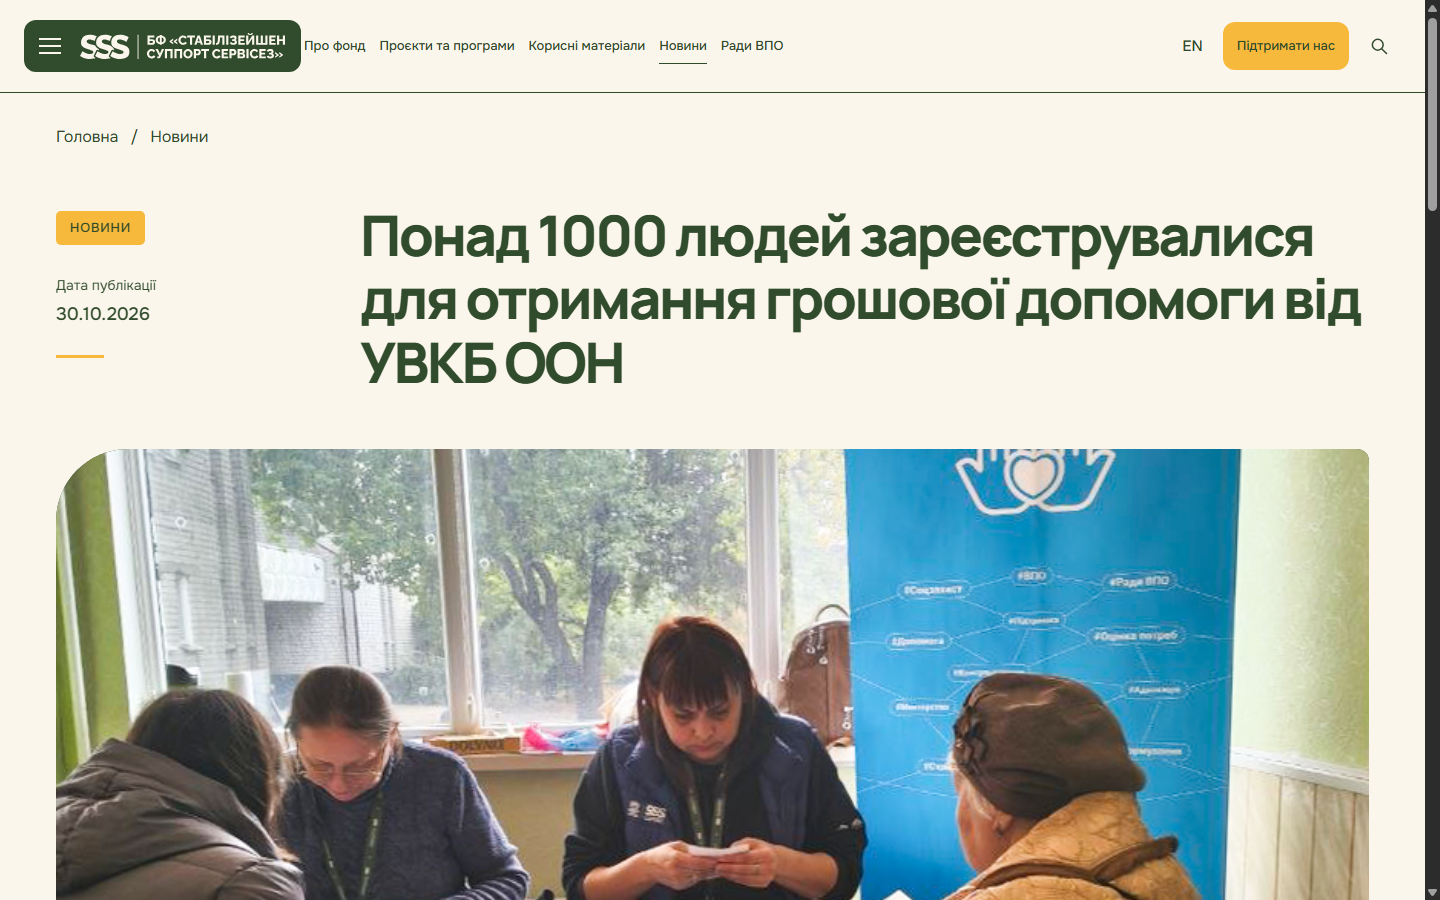
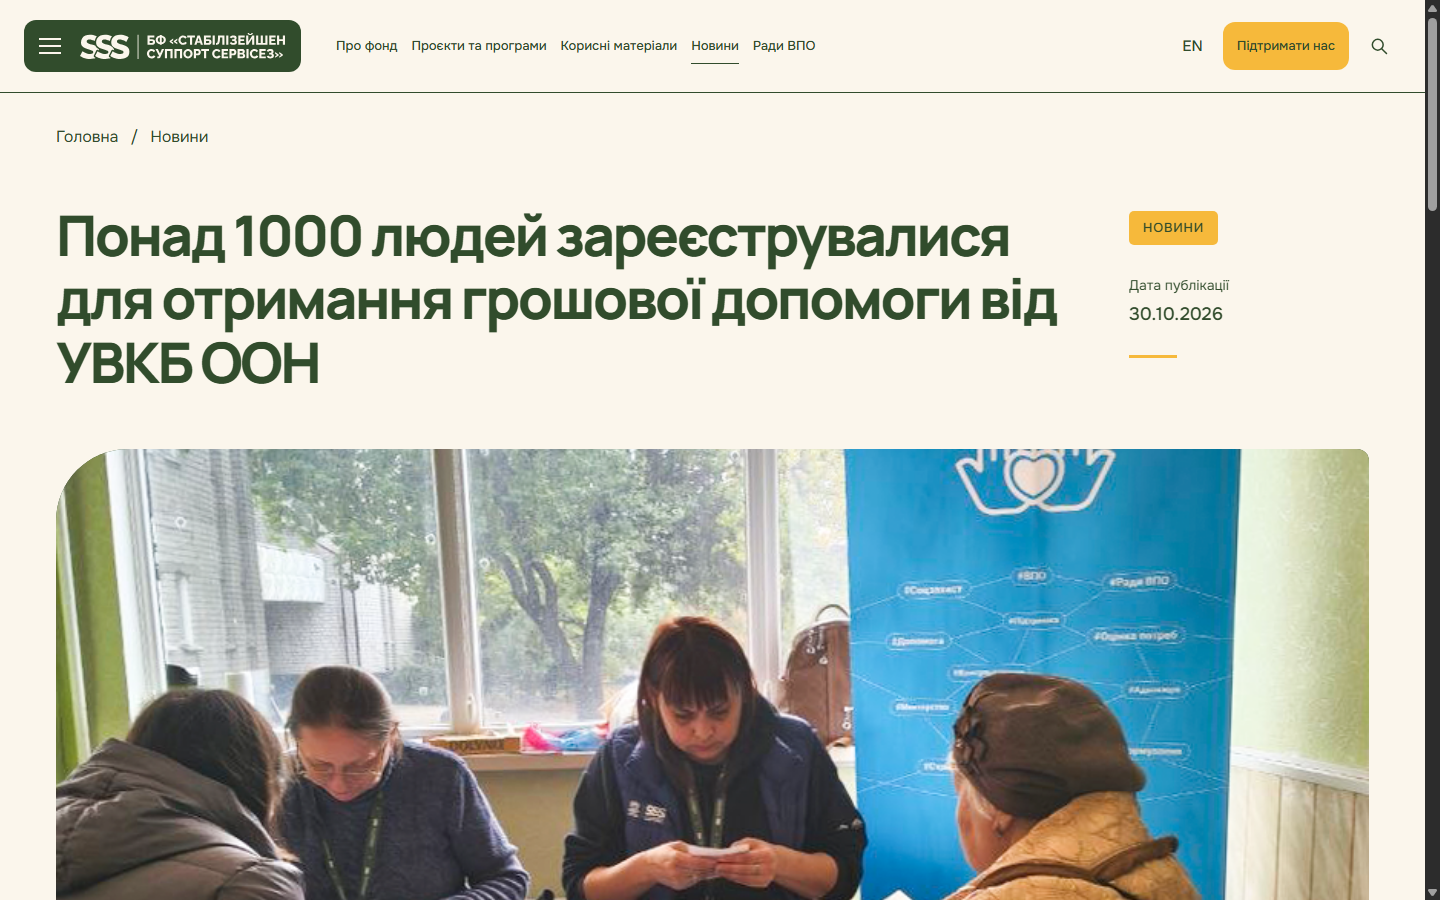
+

Changed region(s): [[0.0312, 0.2178, 0.9688, 0.4356], [0.2188, 0.0311, 0.5625, 0.0622]]

diff --git a/index.html b/index.html
@@ -31,12 +31,12 @@
  <article class="news-article" aria-labelledby="news-title">
   <header class="news-heading wrap">
    <nav class="breadcrumbs" aria-label="Навігаційний ланцюжок"><a href="https://sss-ua.org/">Головна</a><span aria-hidden="true">/</span><a href="https://sss-ua.org/news/">Новини</a></nav>
-   <div class="news-heading-grid"><div class="news-kicker" data-enter><span class="eyebrow">Новини</span><span class="date-label">Дата публікації</span><time datetime="2026-10-30">30.10.2026</time><span class="kicker-line" aria-hidden="true"></span></div>
-   <h1 id="news-title" data-enter>Понад 1000 людей зареєструвалися для отримання грошової допомоги від УВКБ ООН</h1></div>
+   <div class="news-heading-grid"><h1 id="news-title" data-enter>Понад 1000 людей зареєструвалися для отримання грошової допомоги від УВКБ ООН</h1>
+   <div class="news-kicker" data-enter><span class="eyebrow">Новини</span><span class="date-label">Дата публікації</span><time datetime="2026-10-30">30.10.2026</time><span class="kicker-line" aria-hidden="true"></span></div></div>
    <div class="news-cover" data-enter><img src="assets/images/856kh450_tytul-1.png" alt="Працівниці мобільної команди реєструють людей для отримання грошової допомоги" width="856" height="450" fetchpriority="high"></div>
   </header>
   <div class="article-layout wrap">
-   <aside class="article-sidebar"><div class="sidebar-project"><span class="eyebrow">Проєкт</span><a href="https://sss-ua.org/projects/pidtrymka-spromozhnosti-derzhavnykh-ustanov-ta-mistsevykh-hromad-u-zmitsnenni-systemy-sotsialnoho-zakhystu-v-ukraini-2026/">«Підтримка спроможності державних установ та місцевих громад у зміцненні системи соціального захисту в Україні» | 2026<span class="project-link-arrow" aria-hidden="true">↗</span></a></div><div class="share-tools"><span class="eyebrow">Поділитися</span><div class="share-buttons"><a href="https://www.facebook.com/sharer/sharer.php?u=https%3A%2F%2Fsss-ua.org%2Fnews%2Fponad-1000-liudey-zareiestruvalysia-dlia-otrymannia-hroshovoi-dopomohy-vid-uvkb-oon%2F" target="_blank" rel="noopener noreferrer" aria-label="Поділитися у Facebook">f</a><a href="https://t.me/share/url?url=https%3A%2F%2Fsss-ua.org%2Fnews%2Fponad-1000-liudey-zareiestruvalysia-dlia-otrymannia-hroshovoi-dopomohy-vid-uvkb-oon%2F" target="_blank" rel="noopener noreferrer" aria-label="Поділитися у Telegram">↗</a><button type="button" class="copy-link" aria-label="Копіювати посилання">⧉</button></div><span class="copy-status" role="status"></span></div></aside>
+   <aside class="article-sidebar"><div class="sidebar-project"><span class="eyebrow">Проєкт</span><a href="https://sss-ua.org/projects/pidtrymka-spromozhnosti-derzhavnykh-ustanov-ta-mistsevykh-hromad-u-zmitsnenni-systemy-sotsialnoho-zakhystu-v-ukraini-2026/">«Підтримка спроможності державних установ та місцевих громад у зміцненні системи соціального захисту в Україні» | 2026<span class="project-link-arrow" aria-hidden="true">↗</span></a></div><div class="share-tools"><span class="eyebrow">Поділитися</span><div class="share-buttons"><a href="https://www.facebook.com/sharer/sharer.php?u=https%3A%2F%2Fsss-ua.org%2Fnews%2Fponad-1000-liudey-zareiestruvalysia-dlia-otrymannia-hroshovoi-dopomohy-vid-uvkb-oon%2F" target="_blank" rel="noopener noreferrer" aria-label="Поділитися у Facebook">f</a><a href="https://t.me/share/url?url=https%3A%2F%2Fsss-ua.org%2Fnews%2Fponad-1000-liudey-zareiestruvalysia-dlia-otrymannia-hroshovoi-dopomohy-vid-uvkb-oon%2F" target="_blank" rel="noopener noreferrer" aria-label="Поділитися у Telegram"><svg class="telegram-icon" viewBox="0 0 24 24" width="21" height="21" fill="currentColor" aria-hidden="true" focusable="false"><path d="M21.6 3.4 18.2 20c-.25 1.17-.93 1.46-1.88.91l-5.18-3.82-2.5 2.41c-.28.28-.52.52-1.06.52l.38-5.28 9.61-8.69c.42-.37-.09-.58-.65-.21L5.04 13.32.92 12.03c-.9-.28-.92-.9.19-1.34L20.4 3.25c.89-.33 1.67.2 1.2 1.15Z"/></svg></a><button type="button" class="copy-link" aria-label="Копіювати посилання">⧉</button></div><span class="copy-status" role="status"></span></div></aside>
    <div class="article-body">
     <p class="article-lead" data-source-paragraph="0">Понад 1000 евакуйованих та постраждалих від війни зареєструвалися для отримання грошової допомоги від УВКБ ООН завдяки нашому фонду.</p><p class="" data-source-paragraph="1">З початку жовтня наші мобільні команди в шести областях відвідують громади, щоб оперативно реагувати на потреби людей, які змушені були залишити свої домівки через небезпеку або постраждали від обстрілів. Вони облаштовують зони реєстрації для отримання грошової допомоги в публічних місцях. Усі, хто потребує підтримки й відповідає критеріям програми, можуть зареєструватися на місці — швидко й комфортно.</p><div class="article-quote"><span class="quote-mark" aria-hidden="true">“</span><p class="" data-source-paragraph="2"><em>«Ми прагнемо зробити процес реєстрації доступним, своєчасним і скоординованим. Перші тижні роботи показали, наскільки важливими є гнучкість у плануванні виїздів, координація між гуманітарними партнерами та оперативне реагування на зміну безпекової ситуації. Зокрема, коли не можемо відвідати попередньо погоджені громади через безпекові ризики, опрацьовуємо альтернативні варіанти, щоби дістатися до людей, які потребують підтримки»,</em> — розповідає <strong>Яна Морозова,</strong> менеджерка програми грошової допомоги.</p></div><p class="" data-source-paragraph="3">Виїзди в громади триватимуть до кінця цього року. У межах проєкту заплановано зареєструвати 9000 людей.&nbsp;</p><p class="" data-source-paragraph="4">Дякуємо нашим партнерам та регіональним командам, а тим, хто зареєструвався, — за довіру та терпіння в чергах. Ми робимо все можливе, щоб допомогти кожній і кожному, хто цього потребує.</p>
     <section class="news-gallery" aria-label="Фото роботи мобільних команд"><p class="" data-source-paragraph="5">Гортайте карусель, щоби побачити, як працюють наші команди в громадах.</p><div class="gallery-frame"><ul class="gallery-track" tabindex="0" aria-label="Карусель фотографій"><li class="gallery-slide" aria-label="Фото 1 з 6"><img src="assets/images/Artboard-1.png" alt="Робота мобільної команди в громаді — фото 1" width="856" height="570" loading="lazy"></li><li class="gallery-slide" aria-label="Фото 2 з 6"><img src="assets/images/Artboard-2.png" alt="Робота мобільної команди в громаді — фото 2" width="856" height="570" loading="lazy"></li><li class="gallery-slide" aria-label="Фото 3 з 6"><img src="assets/images/Artboard-3.png" alt="Робота мобільної команди в громаді — фото 3" width="856" height="570" loading="lazy"></li><li class="gallery-slide" aria-label="Фото 4 з 6"><img src="assets/images/Artboard-9.png" alt="Робота мобільної команди в громаді — фото 4" width="856" height="570" loading="lazy"></li><li class="gallery-slide" aria-label="Фото 5 з 6"><img src="assets/images/Artboard-10.png" alt="Робота мобільної команди в громаді — фото 5" width="856" height="570" loading="lazy"></li><li class="gallery-slide" aria-label="Фото 6 з 6"><img src="assets/images/Artboard-11.png" alt="Робота мобільної команди в громаді — фото 6" width="856" height="570" loading="lazy"></li></ul></div><div class="gallery-controls"><span class="gallery-count" aria-live="polite"><b>01</b><span aria-hidden="true"> / </span>06</span><div class="gallery-dots" aria-label="Вибрати фото"><button type="button" aria-label="Показати фото 1" aria-pressed="true" data-slide="0"><span></span></button><button type="button" aria-label="Показати фото 2" aria-pressed="false" data-slide="1"><span></span></button><button type="button" aria-label="Показати фото 3" aria-pressed="false" data-slide="2"><span></span></button><button type="button" aria-label="Показати фото 4" aria-pressed="false" data-slide="3"><span></span></button><button type="button" aria-label="Показати фото 5" aria-pressed="false" data-slide="4"><span></span></button><button type="button" aria-label="Показати фото 6" aria-pressed="false" data-slide="5"><span></span></button></div><div class="gallery-arrows"><button type="button" class="gallery-prev" aria-label="Попереднє фото">←</button><button type="button" class="gallery-next" aria-label="Наступне фото">→</button></div></div></section>

diff --git a/style.css b/style.css
@@ -1,7 +1,7 @@
 /* Existing SSS identity and shared chrome are retained in base.css. */
 .sss-project .news-heading{display:block;padding-top:30px;margin-bottom:0}
 .sss-project .news-heading .breadcrumbs{margin-bottom:52px}
-.sss-project .news-heading-grid{display:grid;grid-template-columns:240px 1fr;gap:64px;margin-bottom:56px}
+.sss-project .news-heading-grid{display:grid;grid-template-columns:minmax(0,1fr) 240px;gap:64px;margin-bottom:56px}
 .sss-project .news-kicker{padding-top:8px;display:flex;flex-direction:column;align-items:flex-start}
 .sss-project .news-kicker>.eyebrow{background:var(--yellow);padding:7px 14px;border-radius:5px;font-size:13px;margin-bottom:28px}
 .sss-project .date-label{font-size:14px;margin-bottom:2px}
@@ -54,8 +54,8 @@
 .sss-project .all-news{font-size:18px;min-height:48px;display:flex;align-items:center}
 .sss-project .all-news:hover{text-decoration:underline;text-underline-offset:5px}
 .sss-project .reading-line{position:fixed;top:0;left:0;width:100%;height:3px;transform:scaleX(0);transform-origin:left;background:var(--yellow);z-index:90;pointer-events:none}
-@media(min-width:1351px) and (max-width:1550px){.sss-project .desktop-nav{gap:14px;font-size:13px}.sss-project .header-inner{padding-left:280px}.sss-project .header-actions .button{padding-inline:14px;font-size:13px}}
-@media(max-width:1100px){.sss-project .news-heading-grid,.sss-project .article-layout{grid-template-columns:200px minmax(0,1fr);gap:40px}.sss-project #news-title{font-size:44px}.sss-project .article-body .article-lead{font-size:25px}}
+@media(min-width:1351px) and (max-width:1550px){.sss-project .desktop-nav{gap:14px;font-size:13px}.sss-project .header-inner{padding-left:312px}.sss-project .header-actions .button{padding-inline:14px;font-size:13px}}
+@media(max-width:1100px){.sss-project .news-heading-grid{grid-template-columns:minmax(0,1fr) 160px;gap:40px}.sss-project .article-layout{grid-template-columns:200px minmax(0,1fr);gap:40px}.sss-project #news-title{font-size:44px}.sss-project .article-body .article-lead{font-size:25px}}
 @media(max-width:800px){.sss-project .news-heading-grid{grid-template-columns:1fr;gap:24px;margin-bottom:32px}.sss-project .news-kicker{flex-direction:row;align-items:center;gap:12px;flex-wrap:wrap;padding:0}.sss-project .news-kicker>.eyebrow{margin:0}.sss-project .date-label,.sss-project .kicker-line{display:none}.sss-project .news-kicker time{font-size:15px}.sss-project .news-heading .breadcrumbs{margin-bottom:32px}.sss-project #news-title{font-size:40px}.sss-project .news-cover{border-radius:48px 12px 12px}.sss-project .article-layout{grid-template-columns:1fr;gap:40px;padding-top:40px;padding-bottom:64px}.sss-project .article-sidebar{position:static;display:grid;grid-template-columns:1fr 150px;gap:32px}.sss-project .share-tools{margin:0;border-top:1px solid var(--forest)}.sss-project .project-link-arrow{display:inline;margin-left:8px}.sss-project .sidebar-project>a{font-size:15px}.sss-project .article-body{font-size:19px}}
 @media(max-width:480px){.sss-project #news-title{font-size:33px;line-height:1.17}.sss-project .news-heading{padding-top:20px}.sss-project .news-cover{border-radius:36px 8px 8px}.sss-project .article-sidebar{grid-template-columns:1fr;gap:24px}.sss-project .share-tools{padding-top:16px;display:flex;align-items:center;gap:16px;flex-wrap:wrap}.sss-project .share-tools>.eyebrow{margin:0}.sss-project .copy-status{margin:0;min-height:0;width:100%}.sss-project .article-body .article-lead{font-size:24px;line-height:1.6}.sss-project .article-quote{padding:24px;margin-block:32px}.sss-project .article-quote p{font-size:20px}.sss-project .gallery-controls{gap:8px}.sss-project .gallery-dots button{width:24px}.sss-project .gallery-arrows{gap:6px}.sss-project .gallery-arrows button{width:44px;min-height:44px}.sss-project .gallery-count{font-size:12px}.sss-project .article-partner{font-size:16px}.sss-project .news-gallery{margin-block:32px}}
 @media(prefers-reduced-motion:reduce){.sss-project *,.sss-project *:before,.sss-project *:after{animation:none!important;transition:none!important;scroll-behavior:auto!important}.sss-project [data-enter]{opacity:1;transform:none}}

diff --git a/docs/project-memory.md b/docs/project-memory.md
@@ -8,3 +8,10 @@
 - Застосовані Taste, Design Motion Principles, Sites (local-only); Firecrawl виявився недоступним, HTML отримано напряму.
 - Перевірки на 1440/1024/768/390/320 px пройдені, звіт qa/browser-report.json. Taste gate завершився GATE: ERROR через sandbox-запуск Chrome; його не перезапускали. Окремий запуск Chrome з необхідним дозволом забезпечив скриншоти та функціональну перевірку.
 - Нічого не опубліковано, не закомічено й не відправлено в GitHub. Це дизайн для подальшого погодження, не WordPress-плагін.
+
+## Правки з PDF · 13.11.2026
+
+- Заголовок перенесено в ліву широку колонку, дату й «Новини» — у праву. На мобільному порядок: заголовок, потім метадані.
+- Стрілку кнопки поширення замінено на SVG-іконку Telegram; URL поширення збережений.
+- Збільшено відступ між фіксованим логотипом і першим пунктом меню на desktop; це інтерпретація останнього скриншота PDF без окремого текстового коментаря.
+- Незмінність тексту підтверджена scripts/verify.mjs і браузерним порівнянням усіх семи абзаців. Прогін на п’яти ширинах PASS; актуальні прев’ю qa/1440-viewport.png та qa/390-viewport.png.

diff --git a/docs/VERIFICATION.md b/docs/VERIFICATION.md
@@ -17,3 +17,7 @@ GATE: ERROR (consistency.mjs: Chrome exited early; check.mjs: Chrome did not sta
 - Desktop/mobile скриншоти переглянуті. Конфлікт назви news-heading зі стилями сторінки проєкту виправлений.
 
 Браузерний звіт: `qa/browser-report.json`. Усі профілі локальні, процеси перевірки завершуються за власним PID. Сторонні посилання та фактичне поширення в соціальні мережі не виконувалися. Clipboard має повідомлення про успіх і обробку помилки; системний буфер не змінювався під час QA.
+
+## Повторна перевірка після правок із PDF · 13.11.2026
+
+PASS: статична перевірка точного тексту, синтаксис JS, git diff --check та наявний браузерний прогін на 1440/1024/768/390/320 px. Скріншоти viewport переглянуті: заголовок ліворуч, метадані праворуч; на телефоні метадані після заголовка. Іконка Telegram відображається. Desktop-відступ від логотипа до першого пункту меню збільшено на 32 px.

diff --git a/README.md b/README.md
@@ -22,4 +22,4 @@ https://sss-ua.org/news/ponad-1000-liudey-zareiestruvalysia-dlia-otrymannia-hros
 
 `research/source.html` — збережений оригінал; `research/article.json` — витягнутий контент. Це статичний дизайн, без публікації на сайті й без інтеграції в WordPress.
 
-Перевірки й обмеження: `docs/VERIFICATION.md`. Прев’ю: `qa/desktop.png`, `qa/mobile.png`.
+Перевірки й обмеження: `docs/VERIFICATION.md`. Прев’ю: `qa/1440-viewport.png`, `qa/390-viewport.png` (актуальні після правок); повні `qa/desktop.png`, `qa/mobile.png` — початкова версія.
